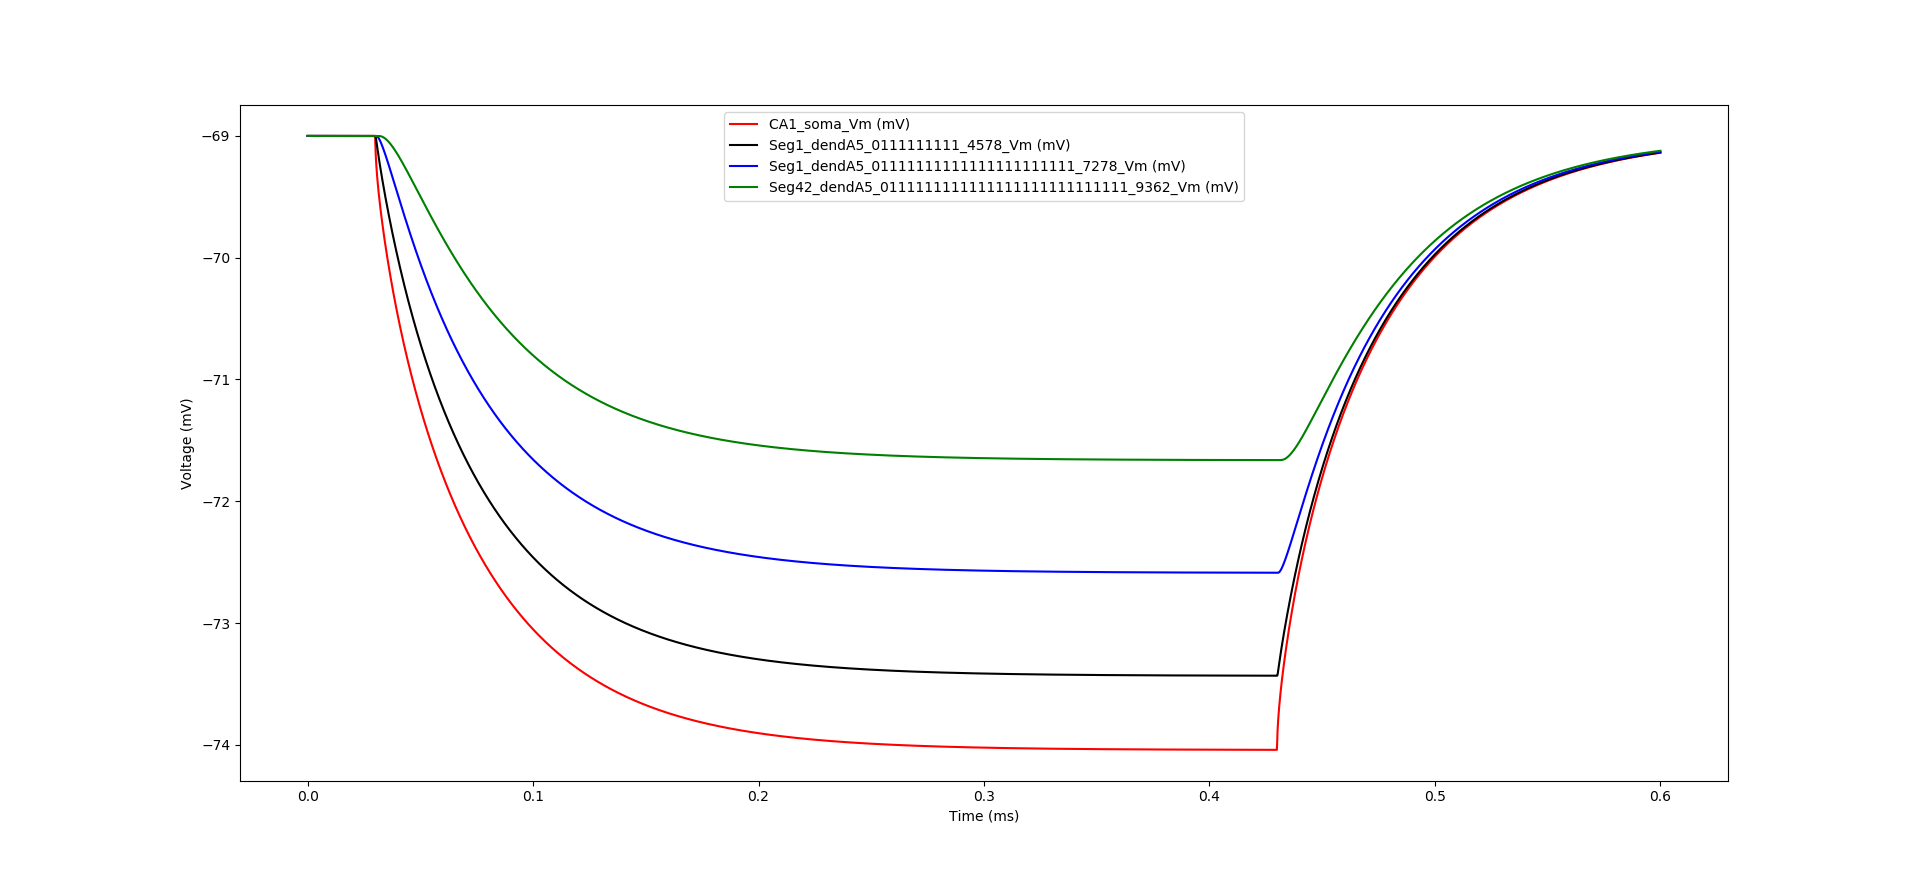
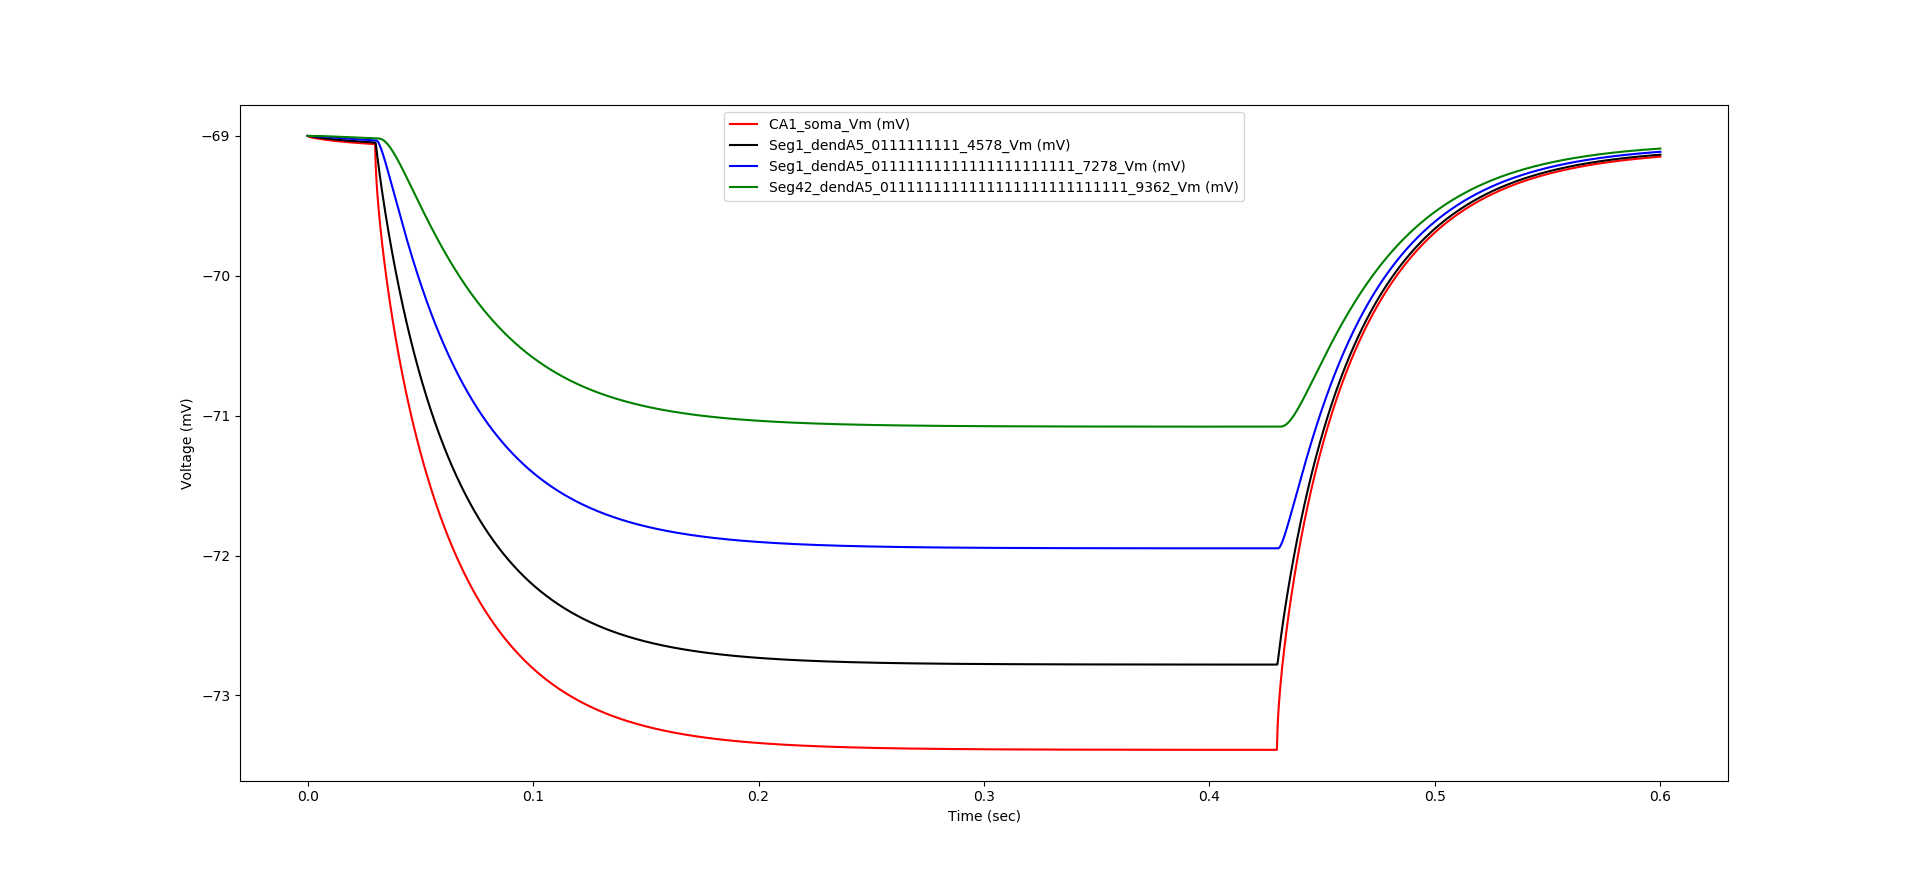
Added some updated plots with the correct axes labels

diff --git a/CA1_Project/Ca1_nml_inject_test.py b/CA1_Project/Ca1_nml_inject_test.py
@@ -25,16 +25,16 @@ RM_halfdist= 100.05
 RM_slope= 50.48
 CM = 1.0595e-6*1e4 # for somatic compartments CM (uniform)
 RA = 2.18 # for non somatic compartments RA (uniform)
-#sag_cond = 1.9359 # sag conductance multiplier as used in NEURON simulation for HCN on
-sag_cond = 0 # sag conductance multiplier as used in NEURON simulation for HCN off
-initVm = -69e-3 #: Resting membrane potential
+sag_cond = 1.9359 # sag conductance multiplier as used in NEURON simulation for HCN on
+#sag_cond = 0 # sag conductance multiplier as used in NEURON simulation for HCN off
+initVm = -64.5e-3 #: Resting membrane potential
 E_leak = -69e-3
 libraryName = '/library'
 cell_path = '/library/CA1'
 
 # Set the parameters for the pulse applied to the soma (in non-synapse experiments)
 pulse_dur = 400e-3
-pulse_amp = 0.25e-9
+pulse_amp = -50e-12
 pulse_delay1 = 30e-3
 pulse_delay2 = 1e9
 
@@ -60,7 +60,7 @@ soma_center = [soma_xloc, soma_yloc, soma_zloc]
 u.createChanLib(libraryName,chan_set,rateParams,CaParams=None)
 
 # Declare maximal conductances for the classic HH Na and K Channels which will be placed in the soma
-cond_set = {'Na' : 2000*4, 'K' : 350*4}
+cond_set = {'Na' : 2000*0, 'K' : 350*0}
 
 cond_set_test = {'HCN' : 0e-12*1e12}
 minq=2.1582  		# units are pS/um2
@@ -298,7 +298,7 @@ plt.plot(t,CA1_soma_Vm.vector * 1e3, 'r',label = 'CA1_soma_Vm (mV)')
 plt.plot(t,primApicalPlotTables[0].vector * 1e3, 'k',label = primApicalPlotTableNames[0] + ' (mV)')
 plt.plot(t,primApicalPlotTables[1].vector * 1e3, 'b',label = primApicalPlotTableNames[1] + ' (mV)')
 plt.plot(t,primApicalPlotTables[2].vector * 1e3, 'g',label = primApicalPlotTableNames[2] + ' (mV)')
-plt.xlabel('Time (ms)')
+plt.xlabel('Time (sec)')
 plt.ylabel('Voltage (mV)')
 plt.legend()
 

diff --git a/CA1_Project/util.py b/CA1_Project/util.py
@@ -294,9 +294,6 @@ def createChanProto(libraryName, channelParams, rateParams, CaParams = None):
 
 	xGate.tableA = inf_x /tau_x
 	xGate.tableB = 1 / tau_x
-	print xGate.tableA
-	print xGate.tableB
-	print channelParams.Xpow
     
     # Define the inactivation gating kinetics if they exist    
     if channel.Ypower > 0:
